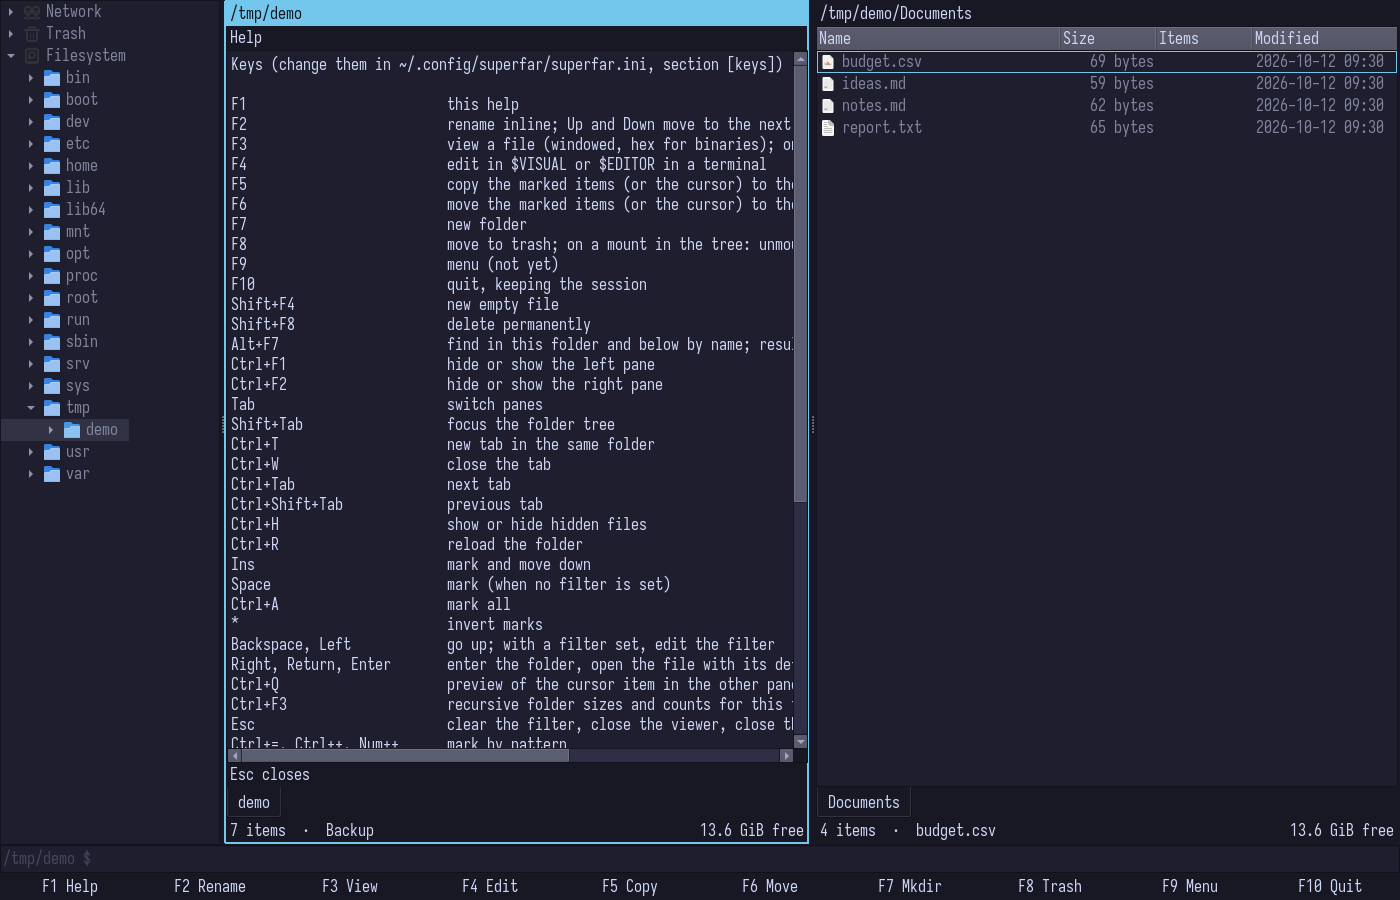
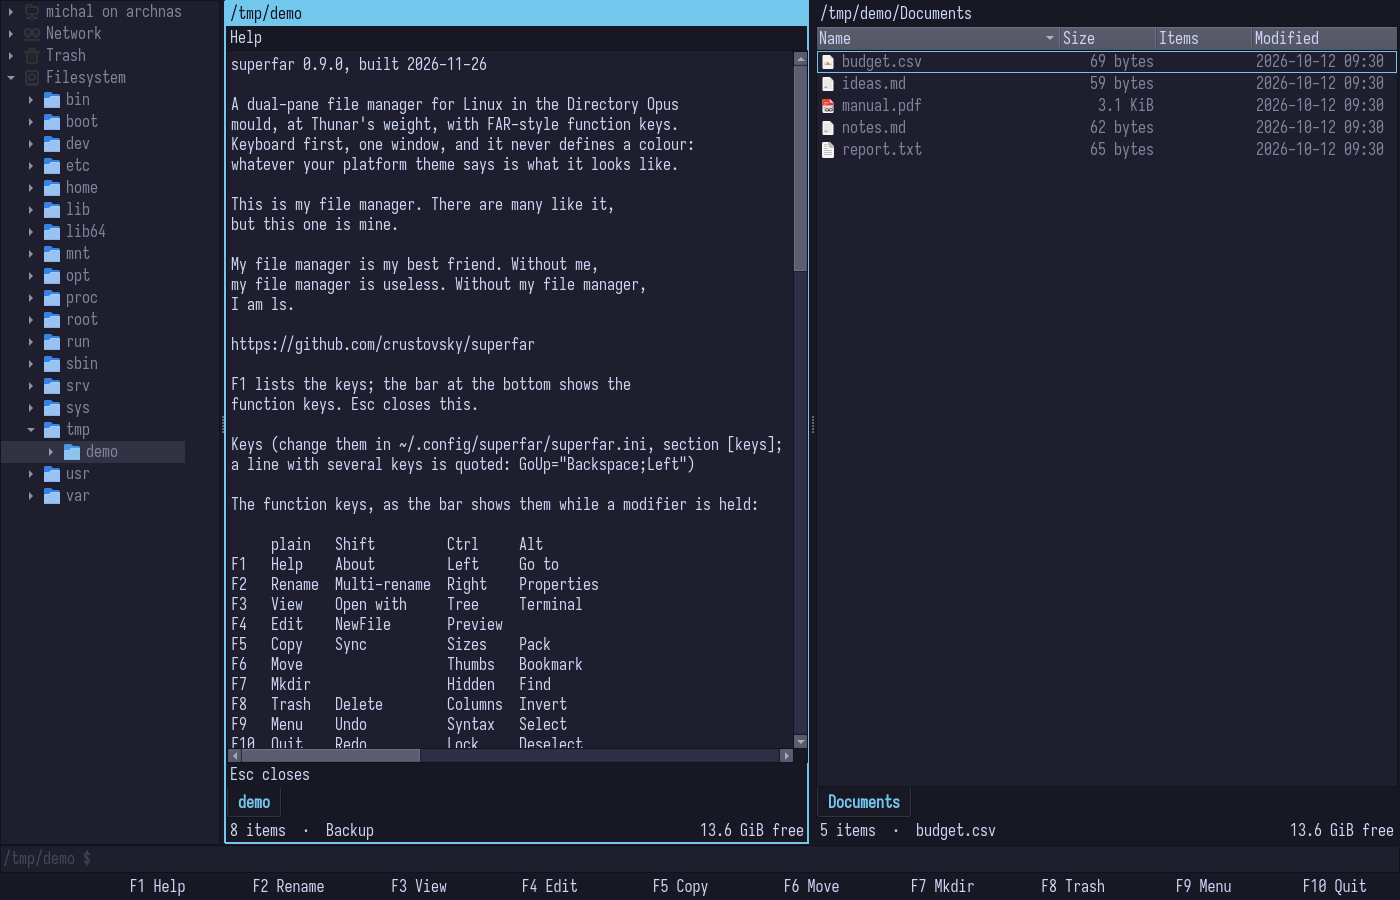
README: the keys as one grid with its rules; screenshots rendered again
The Keys section had the four layers as a table of its own that had
fallen behind (no undo, redo or syntax colours) and, since #85, a
second one beside it. There is one grid now, a row per key as in F1,
followed by the rule of each layer and a note that an older config
follows the keys that moved. The subject tables below it name Ctrl+F9
and the terminal, and undo's function keys are in the feature table.

All sixteen screenshots are rendered again with the 0.9.5 keys; the
folder sizes one shows the Ctrl layer on the bar.

tools/screenshots.sh had been rendering at the default 1100x700 and
carrying tabs, thumbnails and splitter sizes from one shot into the
next: the state file it wrote to keep the about note out was no longer
empty, so the app did not take the window size and layout from the
pristine config, and only the config was reset between shots. It now
writes the state afresh before every shot, the version plus the
[layout], [session] and [window] sections of the pristine file.

Follows #85. Closes #92

diff --git a/README.md b/README.md
@@ -78,7 +78,7 @@ thumbnail; nothing else changes.
 | **As administrator** | Where permission is denied on a local folder or item, a bar offers to go on as administrator: opening the folder, the job's item (for all that follow, if you say so), a rename, a new folder or file. It goes through GVfs's `admin://` and polkit, so the password dialog is the system's own and nothing of superfar runs as root. Unattended jobs never escalate. | the bar, or `admin:///path` in Ctrl+L |
 | **Archives** | Open as read-only folders, extract with F5, pack the marked items into zip, tar.gz, tar.xz, tar.zst or 7z. | Enter, F5, Alt+F5 |
 | **Multi-rename** | Wildcards, regex, find and replace, numbering, case and presets, with a live preview that calls out clashes. | Shift+F2 |
-| **Undo and redo** | Copy, move, trash, rename, new folder or file, extract, pack and attribute changes can be taken back. What an operation created goes to the trash, what it replaced comes back from it, and an item changed since is left alone. Nothing is deleted, except where there is no trash (a network share): there undo asks before it deletes. | Ctrl+Z, Ctrl+Shift+Z |
+| **Undo and redo** | Copy, move, trash, rename, new folder or file, extract, pack and attribute changes can be taken back. What an operation created goes to the trash, what it replaced comes back from it, and an item changed since is left alone. Nothing is deleted, except where there is no trash (a network share): there undo asks before it deletes. | Ctrl+Z, Ctrl+Shift+Z, Shift+F9, Shift+F10 |
 | **Folder sync** | Compares the two panes by size, time and, if asked, SHA-256; copies or trashes what you check. | Shift+F5 |
 
 ### Looking and finding
@@ -113,7 +113,7 @@ Click one for its full size.
 | | |
 |---|---|
 | ![Permissions](docs/screenshots/permissions.png)<br>Permissions and owner as columns; F2 opens the name, Tab moves to the row's mode | ![Properties](docs/screenshots/properties.png)<br>Properties on Alt+F2 over several marked items: bits they differ in are half checked and stay |
-| ![Columns](docs/screenshots/columns.png)<br>The column list on Ctrl+F8: Space shows or hides, Shift+Up and Shift+Down move | ![Folder sizes](docs/screenshots/folder-sizes.png)<br>Recursive folder sizes on Ctrl+F5, computed in the background |
+| ![Columns](docs/screenshots/columns.png)<br>The column list on Ctrl+F8: Space shows or hides, Shift+Up and Shift+Down move | ![Folder sizes](docs/screenshots/folder-sizes.png)<br>Recursive folder sizes on Ctrl+F5, computed in the background; with Ctrl held the bar shows that layer |
 | ![Preview](docs/screenshots/preview.png)<br>The preview on Ctrl+F4, following the cursor | ![PDF pages](docs/screenshots/pdf-pages.png)<br>A PDF in the preview, paged with Ctrl+PgUp and Ctrl+PgDown or the buttons |
 | ![Video](docs/screenshots/video.png)<br>A video in the preview, playing after Ctrl+P, without sound; the same keys seek | ![Viewer](docs/screenshots/viewer.png)<br>The F3 viewer on a binary file |
 | ![Multi-rename](docs/screenshots/multi-rename.png)<br>Multi-rename on Shift+F2, the clashes called out before anything is renamed | ![Folder sync](docs/screenshots/folder-sync.png)<br>Folder sync on Shift+F5, comparing the two panes |
@@ -124,37 +124,36 @@ Click one for its full size.
 
 Almost everything is on a function key, in four layers, and the bar at
 the bottom shows the layer of whatever modifier you hold, naming the
-modifier at its left end. Shift is a variant of the plain key, Ctrl is
-what the pane shows, Alt is panels and tools:
+modifier at its left end:
 
-| | F1 | F2 | F3 | F4 | F5 | F6 | F7 | F8 | F9 | F10 |
-|---|---|---|---|---|---|---|---|---|---|---|
-| plain | help | rename | view | edit | copy | move | new folder | trash | menu | quit |
-| Shift | about | multi-rename | open with | new file | sync | | | delete | | |
-| Ctrl | left pane | right pane | sizes | thumbnails | tree | columns | hidden files | preview | | |
-| Alt | go to | properties | | | pack | bookmark | find | invert marks | mark by pattern | unmark by pattern |
+| | plain | Shift | Ctrl | Alt |
+|---|---|---|---|---|
+| **F1** | help | about | left pane | go to |
+| **F2** | rename | multi-rename | right pane | properties |
+| **F3** | view | open with | tree | terminal |
+| **F4** | edit | new file | preview | |
+| **F5** | copy | sync | sizes | pack |
+| **F6** | move | | thumbnails | bookmark |
+| **F7** | new folder | | hidden files | find |
+| **F8** | trash | delete | columns | invert marks |
+| **F9** | menu | undo | syntax colours | mark by pattern |
+| **F10** | quit | redo | lock tab | unmark by pattern |
 
-F1 shows the full table inside the window, with whatever you have
-remapped. The function keys come in four layers, and the bar at the
-bottom shows the one whose modifier you hold:
+Each layer has one rule:
 
-| Key | plain | Shift | Ctrl | Alt |
-|-----|-------|-------|------|-----|
-| F1 | Help | About | Left pane | Go to |
-| F2 | Rename | Multi-rename | Right pane | Properties |
-| F3 | View | Open with | Tree | Terminal |
-| F4 | Edit | New file | Preview | |
-| F5 | Copy | Sync | Sizes | Pack |
-| F6 | Move | | Thumbnails | Bookmark |
-| F7 | Mkdir | | Hidden | Find |
-| F8 | Trash | Delete | Columns | Invert marks |
-| F9 | Menu | Undo | Syntax colours | Mark by pattern |
-| F10 | Quit | Redo | Lock tab | Unmark by pattern |
+- **plain** is FAR's row.
+- **Shift** is the plain key in another form: rename and multi-rename,
+  trash and delete. The menu and quit have no other form, so Shift+F9
+  and Shift+F10 hold undo and redo.
+- **Ctrl** is what is shown, each key a switch: F1 to F4 the parts of
+  the window, F5 to F10 the settings of the tab.
+- **Alt** is tools and panels, then the marks on F8 to F10. Alt+F4 is
+  left to the window manager.
 
-One rule per layer. Shift is another form of the plain key (undo and
-redo on F9 and F10 are the one exception). Ctrl is what is shown: F1 to
-F4 the parts of the window, F5 to F10 the settings of the tab. Alt is
-tools and panels, then the marks. Alt+F4 is left to the window manager.
+F1 shows the same grid and the full list inside the window, with
+whatever you have remapped. A config written by 0.9 or older follows
+the keys that moved in 0.9.5 (the Ctrl layer); a line you changed
+yourself is left alone.
 
 The defaults by subject, with the keys other file managers use kept as
 second keys:
@@ -231,14 +230,15 @@ second keys:
 The strip under the preview's details has the same buttons and a
 playhead.
 
-### Help, menu and command line
+### Help, menu, terminal and command line
 
 | Key | Action |
 |-----|--------|
 | F1, Shift+F1 | help; about: name, version and build date |
 | F9 | the menu bar until a choice or Esc |
 | F10 | quit, keeping the session |
-| Ctrl+Space | the command line: runs in the tab's folder in a terminal |
+| Ctrl+F9 | syntax colours in the viewer and the preview, on or off |
+| Ctrl+Space | the command line: runs one command in the tab's folder in a terminal, which stays until Enter |
 | Alt+F3 | your terminal in the tab's folder, with your shell (xdg-terminal-exec, else `$TERMINAL`) |
 
 ## Mouse
